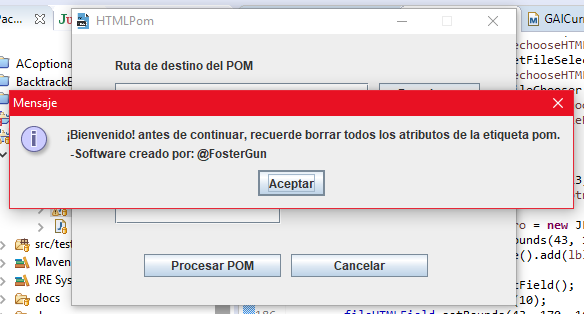
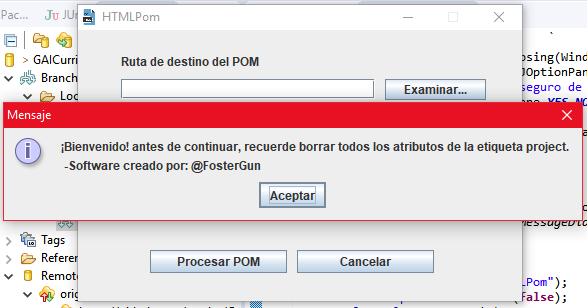
Fallos menores corregidos

diff --git a/src/main/java/edu/ehu/CS19/GAICurricula/Pomexec.java b/src/main/java/edu/ehu/CS19/GAICurricula/Pomexec.java
@@ -73,7 +73,7 @@ public class Pomexec {
 			}
 			@Override
 			public void windowOpened(WindowEvent arg0) {
-				JOptionPane.showMessageDialog(null, "¡Bienvenido! antes de continuar, recuerde borrar todos los atributos de la etiqueta pom. \n -Software creado por: @FosterGun");
+				JOptionPane.showMessageDialog(null, "¡Bienvenido! antes de continuar, recuerde borrar todos los atributos de la etiqueta project. \n -Software creado por: @FosterGun");
 			}
 		});
 
